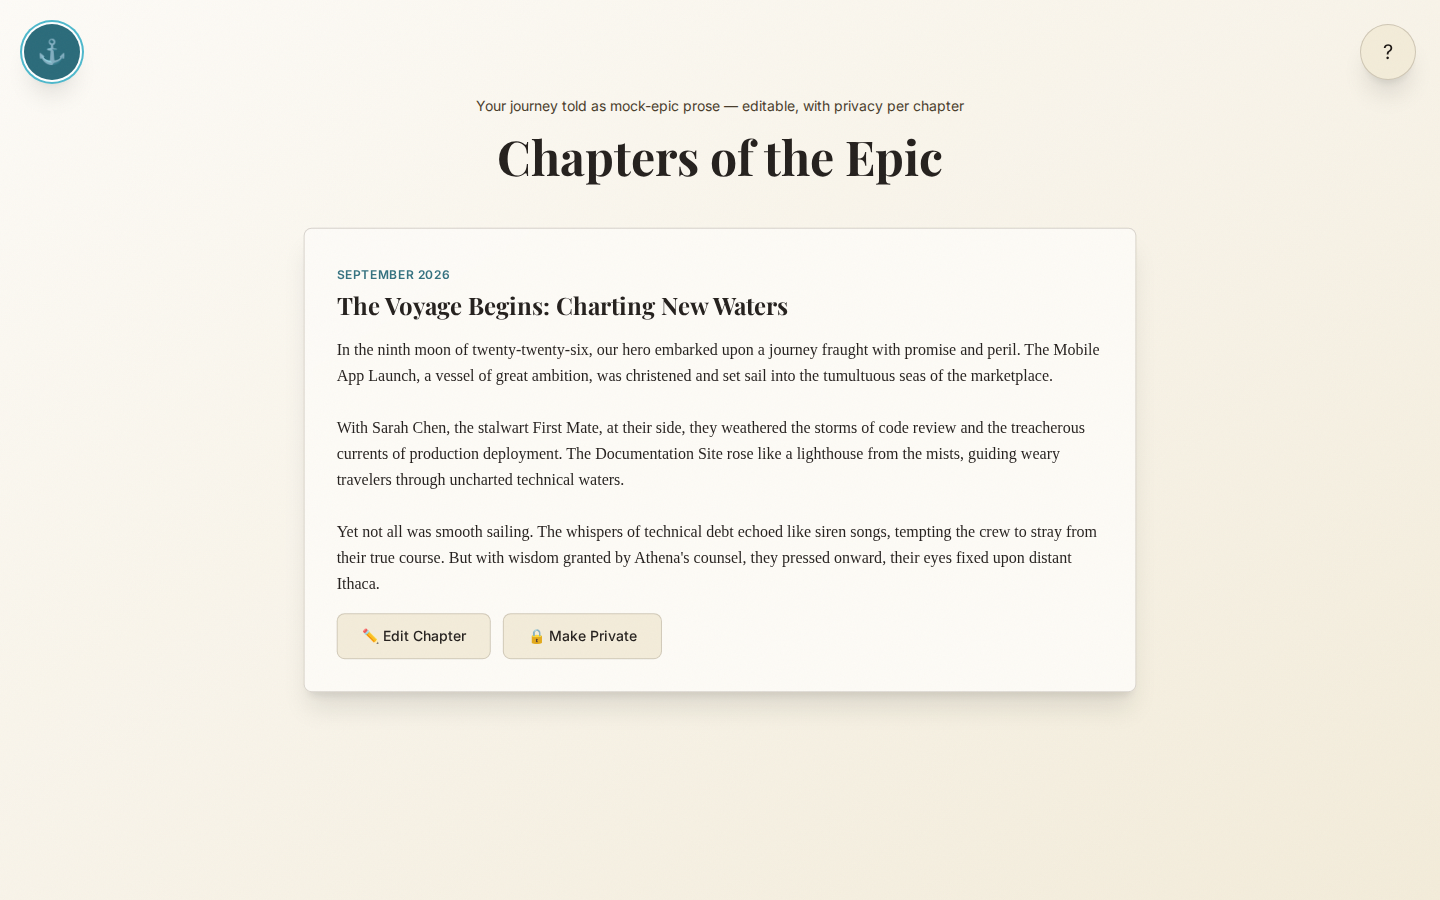
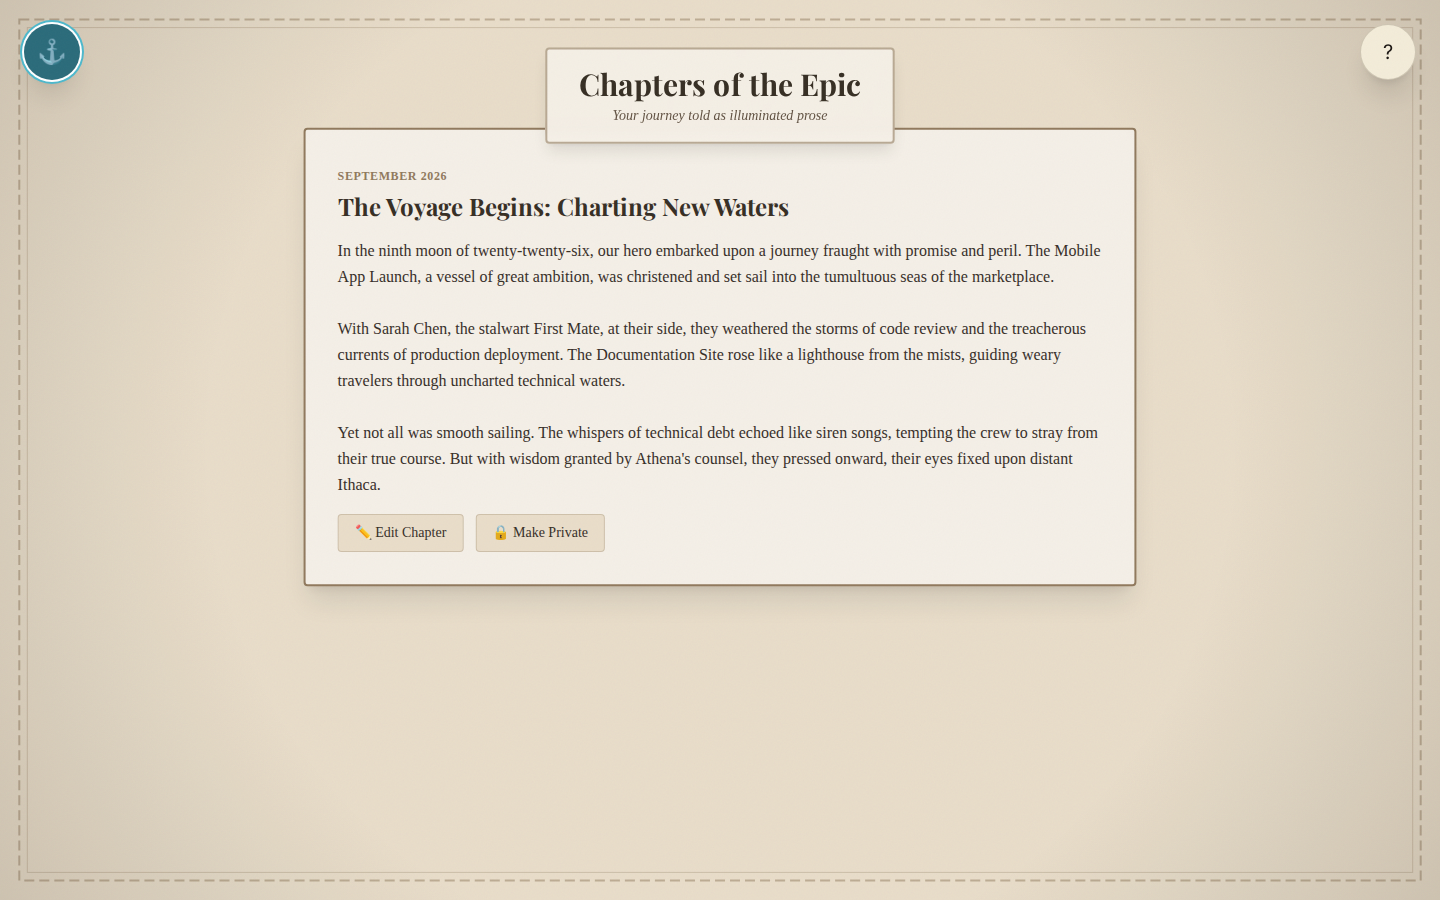
Update test expectations to match redesigned UI text

diff --git a/e2e/odyssey.spec.ts b/e2e/odyssey.spec.ts
@@ -69,17 +69,17 @@ test.describe('The Work Odyssey', () => {
 
   test('should navigate to different views', async ({ page }) => {
     const views = [
-      { name: 'Board the Ship', expectedText: 'Your crew' },
+      { name: 'Board the Ship', expectedText: 'stalwart crew' },
       { name: "Captain's Log", expectedText: 'Weekly check-in with Athena' },
-      { name: 'Three Trials', expectedText: 'biggest challenges' },
-      { name: 'Ithaca North Star', expectedText: 'Your destination' },
-      { name: 'Chapters of the Epic', expectedText: 'Your journey told as mock-epic prose' },
+      { name: 'Three Trials', expectedText: 'greatest challenges' },
+      { name: 'Ithaca North Star', expectedText: 'Your North Star' },
+      { name: 'Chapters of the Epic', expectedText: 'illuminated prose' },
       { name: "Calypso's Island", expectedText: "Work that's been forgotten" },
       { name: 'Gifts from the Gods', expectedText: 'Recognition from your crew' },
-      { name: 'Recruit a Crew Member', expectedText: 'Suggested collaborators' },
-      { name: 'Ports of Call', expectedText: 'Cross-team harbours' },
-      { name: 'The Armada', expectedText: 'Manager fleet view' },
-      { name: "Athena's Counsel", expectedText: 'Gentle daily wisdom' },
+      { name: 'Recruit a Crew Member', expectedText: 'Build Your Crew' },
+      { name: 'Ports of Call', expectedText: 'Integration with your tools' },
+      { name: 'The Armada', expectedText: 'Fleet Overview' },
+      { name: "Athena's Counsel", expectedText: "Athena's Wisdom" },
     ];
 
     for (const view of views) {
@@ -104,7 +104,7 @@ test.describe('The Work Odyssey', () => {
     // Navigate to a different view
     await page.getByRole('button', { name: /open navigation/i }).click();
     await page.getByRole('button', { name: 'Board the Ship' }).click();
-    await expect(page.locator('text=Your crew')).toBeVisible();
+    await expect(page.locator('text=stalwart crew')).toBeVisible();
     
     // Press Esc
     await page.keyboard.press('Escape');
@@ -177,14 +177,14 @@ test.describe('The Work Odyssey', () => {
     await ship.click();
     
     // Should navigate to Board the Ship
-    await expect(page.locator('text=Your crew')).toBeVisible();
+    await expect(page.locator('text=stalwart crew')).toBeVisible();
   });
 
   test('should interact with crew member on ship deck', async ({ page }) => {
     // Navigate to Board the Ship
     await page.getByRole('button', { name: /open navigation/i }).click();
     await page.getByRole('button', { name: 'Board the Ship' }).click();
-    await expect(page.locator('text=Your crew')).toBeVisible();
+    await expect(page.locator('text=stalwart crew')).toBeVisible();
     
     // Wait for first crew member to be visible
     const crewMember = page.locator('[data-testid^="crew-"]').first();
@@ -226,7 +226,7 @@ test.describe('The Work Odyssey', () => {
     // Navigate to Three Trials
     await page.getByRole('button', { name: /open navigation/i }).click();
     await page.getByRole('button', { name: 'Three Trials' }).click();
-    await expect(page.locator('text=/identify your month.*biggest challenges/i')).toBeVisible();
+    await expect(page.locator('text=greatest challenges')).toBeVisible();
     
     // Wait for first trial to be visible
     const trial = page.locator('[data-testid^="trial-"]').first();
